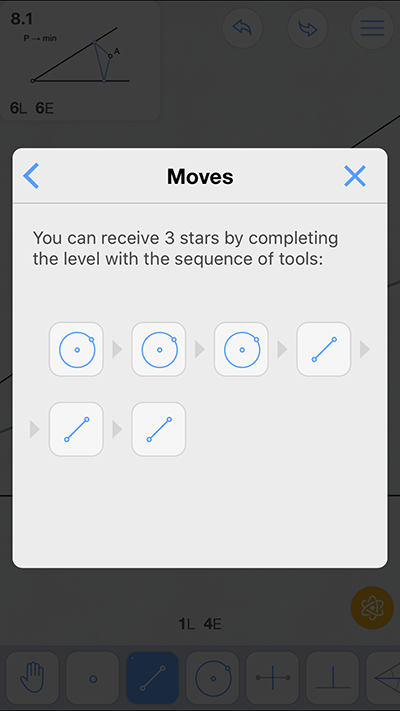
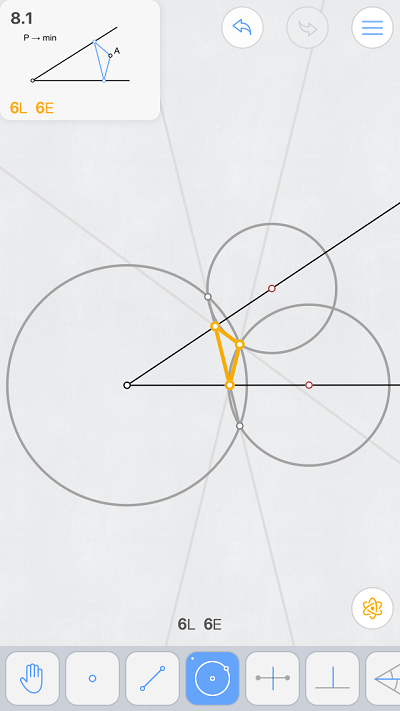
Add al solutions for Level 7 and Level 8

diff --git a/Euclidea3.md b/Euclidea3.md
@@ -267,14 +267,15 @@ _注：[4V，如图做4个三角形得到隐藏星星。](solving/Euclidea3/6.8.
 解：[5L，1.作中垂线求AB中点；2.以CB为半径作圆；3.过点作平行线。](solving/Euclidea3/6.9.1.png)   
 解：[8E，利用5.1的思想画平行线，然后利用圆来使给定的点为中点。](solving/Euclidea3/6.9.2.png)  
 
-#### § 7.Eta 普通⭐:36，隐藏⭐:4，更新中...  
+#### § 7.Eta 普通⭐:36，隐藏⭐:4，全解完成  
 
 - 7.1 正方形面积之和 *3L 6E*  
 解：[3L，复制AB为半径在O点作圆，得到CD；在CD处作垂线得到E。](solving/Euclidea3/7.1.1.png)  
 解：[6E，1.延长线延得到A点；2.以OA为半径在O处做圆得到BC；3.做圆BO；4做圆CO得到D。](solving/Euclidea3/7.1.2.png)  
 
 - 7.2 环 *4L 5E*  
-*解：解答还没想出来。*  
+解：[4L，只要作出Sqrt(2)/2的半径即可。](solving/Euclidea3/7.2.1.png)  
+解：[5E，和4L完全相同的方法，在作垂线的时候可以省1E。](solving/Euclidea3/7.2.2.png)    
 
 - 7.3 75度角 *4L 5E 2V* ⭐  
 解：[4L，作AOB的角平分线得C，AOC和角平分线即为75度角。](solving/Euclidea3/7.3.1.png)  
@@ -285,61 +286,81 @@ _注：[2V，上下各做一75度角正方形得到隐藏星星。](solving/Eucl
 解：[3L，作垂线及垂分线。](solving/Euclidea3/7.4.1.png)  
 _注：[3V，如图求得3个解得到隐藏星星。](solving/Euclidea3/7.4.2.png)_  
 
-- 7.5 海伦公式 *4L 4E*  
-解：[4L，反射角定理，垂线上求得等距离的点。](solving/Euclidea3/7.5.1.png)   
-*解：4E解答还没想出来。*  
+- 7.5 海伦问题 *4L 4E*  
+解：[4L4E，反射角定理，垂线上求得等距离的点。](solving/Euclidea3/7.5.png)
 
 - 7.6 外接圆 *3L 7E*  
 解：[3L7E，两条垂分线可找圆心。](solving/Euclidea3/7.6.png)  
 
 - 7.7 内接圆 *4L 8E*  
 解：[4L，角平分线的交点即为圆心。](solving/Euclidea3/7.7.1.png)   
-*解：8E解答还没想出来。*  
+解：[8E，利用内心的垂足是周长的平分点，用这个垂线和角平分线交点求圆心。](solving/Euclidea3/7.7.2.png)
 
 - 7.8 已知中点的线 *3L 5E*  
 解：[3L，如图所示求得AB两点连线。](solving/Euclidea3/7.8.1.png)  
-*解：5E解答还没想出来。*  
+解：[5E，利用蝴蝶定理。](solving/Euclidea3/7.8.2.png)  
 
 - 7.9 等边角 *2L 5E*  
-*解：2L5E解答还没想出来。*  
+解：[2L，先作角平分线，然后做垂线即可。](solving/Euclidea3/7.9.1.png)  
+解：[5E，实质也是作角平分线的垂线，优化中间不必要的步骤。](solving/Euclidea3/7.9.2.png)  
 
 - 7.10 三分54度角 *4L 5E*  
-*解：4L5E解答还没想出来。*  
+解：[4L，利用54度的特殊性质，先作出18度，然后再对剩下的36度作角平分线。](solving/Euclidea3/7.10.1.png)  
+解：[5E，思想同4L，但是将角平分线替换为18度弧的加减。](solving/Euclidea3/7.10.2.png)  
 
 - 7.11 外切圆 *4L 8E 3V* ⭐  
 解：[4L，1.作角ABC及BCD的平分线，交于E即为所求圆圆心；2.过E作BC垂线，EF即为所求圆半径。](solving/Euclidea3/7.11.1.png)  
-*解：8E解答还没想出来。*  
+解：[8E，思想和7.7 8E相似，只不过这次使用两个垂线的交点。](solving/Euclidea3/7.11.2.png) 
 _注：[3V，如图，作出全部三个解得到隐藏星星。](solving/Euclidea3/7.11.3.png)_  
 
 - 7.12 周长平分线 *4L 7E 3V* ⭐  
 解：[4L，1.以AD为半径在A作圆；2.以BC为半径在D作圆；3.作CE垂分线，AF即为所求平分线。](solving/Euclidea3/7.12.1.png)  
-*解：7E解答还没想出来。*  
+解：[7E，将两边和底边转换到同一直线上，然后作出中点即可。](solving/Euclidea3/7.12.2.png)  
 _注：[3V，如图，作出全部三个解得到隐藏星星。](solving/Euclidea3/7.12.3.png)_  
 
-#### § 8.Theta 普通⭐:33，隐藏⭐:3，更新中...  
+#### § 8.Theta 普通⭐:33，隐藏⭐:3，全解完成  
 
 - 8.1 最小周长1 *6L 6E*  
-*解：[6L6E解答还没想出来。](solving/Euclidea3/8.1.png)*  
+解：[6L6E，由光走最短路原理，只要作出定点关于两边的对称点，然后连接即可。](solving/Euclidea3/8.1.png)  
 
-- 8.2 三边平衡 *3L 3E* 
+- 8.2 比例中项 *3L 3E* 
+解：[3L3E，构造两个相似的等腰三角形。](solving/Euclidea3/8.2.png) 
 
 - 8.3 梯形的调和中项值 *3L 5E* 
+解：[3L，找出梯形对角线的交点，过该点作底边的平行线即可。](solving/Euclidea3/8.3.1.png) 
+解：[5E，思路同3L，不过做平行线用了技巧。](solving/Euclidea3/8.3.2.png) 
 
 - 8.4 画垂线 *5L 5E* 
+解：[5L5E，利用三角形的高交于垂心，利用给定的半圆周构造垂线。](solving/Euclidea3/8.4.png) 
 
 - 8.5 中点 *5L 5E* 
+解：[5L5E，这是非常有名的问题，可以用相似证明，然而更优雅的观点是从射影几何的角度，调合点列中无穷远点的对合点为中点。](solving/Euclidea3/8.5.png)
 
 - 8.6 内角 *2L 4E 2V* ⭐
+解：[2L，先作角平分线，然后作垂线。](solving/Euclidea3/8.6.1.png)  
+解：[4E，先画圆得出角平分线的平行线，利用7.9 5E的作图方法。](solving/Euclidea3/8.6.2.png)  
+_注：[2V，如图，作出全部两个解得到隐藏星星。](solving/Euclidea3/8.6.3.png)_  
 
 - 8.7 正八边形 *9L 13E 2V* ⭐ 
+解：[9L，先作垂线，然后作角平分线得到45度线，然后用另一个角平分线得到八边形上面的一个顶点，然后用垂线和中垂线当边。](solving/Euclidea3/8.7.1.png)  
+解：[13E，先得到两边的45度线，然后画圆得到八边形的中心，然后以中心为圆心画圆得到八边形变延长后八角星的外接圆，之后连接各个交点当边。](solving/Euclidea3/8.7.2.png)  
+_注：[2V，如图，作出全部两个解得到隐藏星星。](solving/Euclidea3/8.7.3.png)_  
 
 - 8.8 三等分梯形对角线 *3L 6E 2V* ⭐ 
+解：[3L，找到底边中点，连线后过中间交点作底边的平行线即可。](solving/Euclidea3/8.8.1.png)  
+解：[6E，也是先找底边中点，和上底边的两个端点连线，中间的交点连线后自动和底边平行。](solving/Euclidea3/8.8.2.png)  
+_注：[2V，如图，作出全部两个解得到隐藏星星。](solving/Euclidea3/8.8.3.png)_  
 
 - 8.9 最小周长2 *6L 8E* 
+解：[6L，易证垂足三角形就是所求三角形，作出三条高即可。](solving/Euclidea3/8.9.1.png)  
+解：[8E，两个垂足由以底边为直径的半圆来构造，然后由光学反射原理得出另一个垂足。](solving/Euclidea3/8.9.2.png) 
 
 - 8.10 线段的调和中项值 *4L 4E* 
+解：[4L4E，构造相似三角形。](solving/Euclidea3/8.10.png)  
 
-- 8.11 角和中点确定的三角形 *5L 7E* 
+- 8.11 角和重心确定的三角形 *5L 7E* 
+解：[5L，易知过重心和两边平行的直线将底边三等分，按此构造即可。](solving/Euclidea3/8.11.1.png)  
+解：[7E，根据重心将中线分成1：2两段构造底边上的一点，然后由反射的原理构造另一点，连线得出底边。](solving/Euclidea3/8.11.2.png) 
 
 #### § 9.Iota 普通⭐:36，隐藏⭐:6，更新中...  
 
